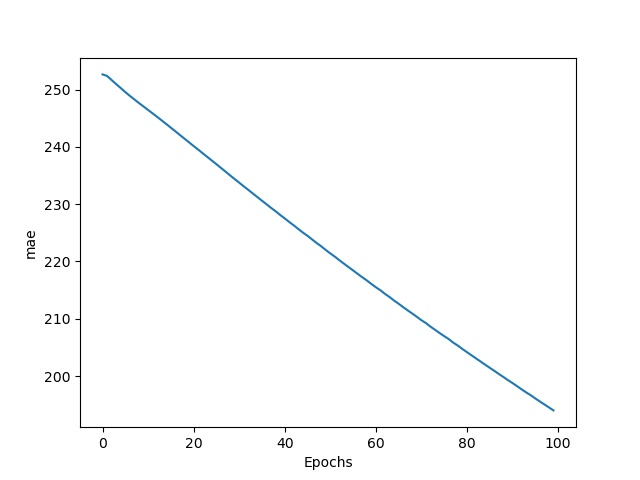
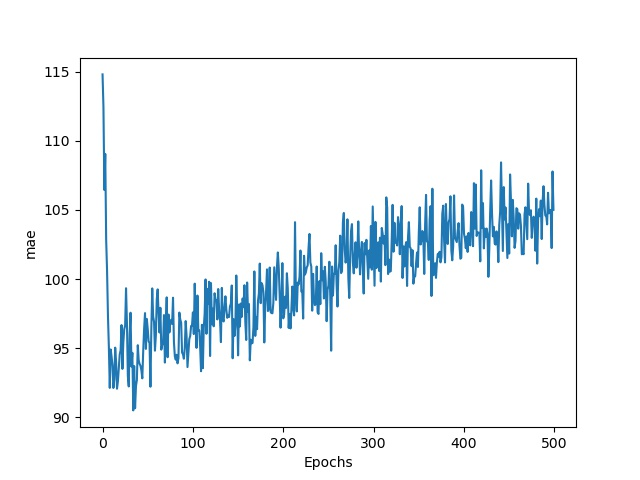
Update

diff --git a/prediction_for_lily_price_and_volume/test.py b/prediction_for_lily_price_and_volume/test.py
@@ -12,7 +12,6 @@ import datetime
 
 def new_x(predict, test_x, n, x_scaler):
     test_x =  x_scaler.inverse_transform(test_x)
-
     for i in range(test_x.shape[1]//n):
         test_x = np.insert(test_x, int(i*n+n), values=float(predict[i]), axis=1)
         test_x = np.delete(test_x, i*n, axis=1)
@@ -24,26 +23,26 @@ start = datetime.datetime(2019, 12,31)
 end = datetime.datetime(2020, 12,31)
 interval = (end - start).days
 
-path_lastyear_year = r'D:\dataset\lilium_price\val_x\FS443.csv'    #前一年的訓練資料
-path_weight = r'./weights/FS443/epoch100-loss108457.9141-val_loss68985.5859-mae194.00.pth' #權重
-# sub_path = './results/test_flower_price.csv'    #submit格式
-path_result_csv = './results/FS443_result.csv'
+path_test = r'D:\dataset\lilium_price\test_x\for2020test\FS479.csv'    #前一年的訓練資料
+path_weight = r'./weights/FS479/epoch962-loss5045.2241-val_loss12625.3564-mae61.74.pth' #權重
+sub_path = './results/test_flower_price.csv'    #submit格式
+path_result_csv = './results/FS479_result.csv'
 # flower_name = ['FS443', 'FS479', 'FS592', 'FS609', 'FS639', 'FS779', 'FS859', 'FS879', 'FS899', 'FS929']    # 需與訓練時的處理順序相同
 cloumn = [ 'price_high', 'price_mid', 'price_avg', 'volume']    # 需與訓練時的處理順序相同
 
 n = 10  # 取前n天的資料作為特徵
-# f = 10  #花的種類數
+f = 10  #花的種類數
 p = 4   #預測的價格數量
 
-header = ['date']
+header = []
 for col in cloumn:
     header.append(col)
 
-test_df = pd.read_csv(path_lastyear_year)[-1:]  # 取去年的最後n天作為今天的初始特徵
+test_df = pd.read_csv(path_test, index_col=None, header=None)  # 取去年的最後n天作為今天的初始特徵
 test_x = np.array(test_df)
 
 # # 正歸化
-train_x = pd.read_csv(r'D:\dataset\lilium_price\train_x\FS443.csv', encoding='utf-8')
+train_x = pd.read_csv(r'D:\dataset\lilium_price\train_x\FS479.csv', encoding='utf-8')   #訓練時的資料用於正規化
 x_scaler = StandardScaler().fit(train_x)
 test_x = x_scaler.transform(test_x)
 test_x = torch.Tensor(test_x)  # to tensor
@@ -53,11 +52,9 @@ model.load_state_dict(torch.load(path_weight))
 model.eval()
 date_list = []
 output_list = []
-for i in tqdm(range(interval)):
+sub = pd.read_csv(sub_path)
+for i in tqdm(range(len(sub)//f)):
     with torch.no_grad():
-        date = start + datetime.timedelta(days = (i + 1))
-        date = date.strftime('%Y-%m-%d')
-        date_list.append(date)
         predict = model(torch.unsqueeze(test_x, dim=0))
         predict = predict[0][0]    
         test_x = new_x(predict, test_x, n, x_scaler)
@@ -65,7 +62,7 @@ for i in tqdm(range(interval)):
         output_list.append(predict)
 output_arr = np.array(output_list)
 result_df = pd.DataFrame(output_arr)
-result_df.insert(0,'date',date_list)
+# result_df.insert(0,'date',sub['date'])
 result_df.to_csv(path_result_csv, float_format='%.2f', header=header, index=None)
 
 

diff --git a/prediction_for_lily_price_and_volume/train.py b/prediction_for_lily_price_and_volume/train.py
@@ -29,10 +29,10 @@ else:
 n = 10  # 取前n天的資料作為特徵
 
 #載入資料集
-train_x = pd.read_csv(r'D:\dataset\lilium_price\train_x\FS443.csv', encoding='utf-8')
-train_y = pd.read_csv(r'D:\dataset\lilium_price\train_y\FS443.csv', encoding='utf-8')
-val_x = pd.read_csv(r'D:\dataset\lilium_price\val_x\FS443.csv', encoding='utf-8')
-val_y = pd.read_csv(r'D:\dataset\lilium_price\val_y\FS443.csv', encoding='utf-8')
+train_x = pd.read_csv(r'D:\dataset\lilium_price\train_x\FS929.csv', encoding='utf-8')
+train_y = pd.read_csv(r'D:\dataset\lilium_price\train_y\FS929.csv', encoding='utf-8')
+val_x = pd.read_csv(r'D:\dataset\lilium_price\val_x\FS929.csv', encoding='utf-8')
+val_y = pd.read_csv(r'D:\dataset\lilium_price\val_y\FS929.csv', encoding='utf-8')
 
 #正規化
 x_scaler = StandardScaler().fit(train_x)
@@ -52,13 +52,14 @@ valset = utils.Setloader(val_x, val_y)
 batch_size = train_x.shape[0]
 val_batch_size = val_x.shape[0]
 LR = 0.01
-num_epochs = 100
+num_epochs = 500
 
 model = model.RNN_modelv1(input_dim=train_x.shape[1], output_dim=train_y.shape[1]).to(device)
+model.load_state_dict(torch.load(r'./weights/FS899/epoch500-loss54983.2031-val_loss10039.2021-mae53.55.pth'))    #載入預訓練權重
 # 選擇優化器與損失函數
 optimizer = torch.optim.AdamW(model.parameters(), lr=LR) 
 criterion = nn.MSELoss().to(device)
-scheduler = lr_scheduler.StepLR(optimizer, step_size=10, gamma=0.9)
+scheduler = lr_scheduler.StepLR(optimizer, step_size=100, gamma=0.9)
 # scheduler = lr_scheduler.CosineAnnealingLR(optimizer,
 #                                                T_max=10,
 #                                                eta_min=1e-6,
@@ -120,15 +121,15 @@ for epoch in range(num_epochs):
                             'mae': running_mae
                         })
                 pbar.update(1)
-    # scheduler.step()
+    scheduler.step()
     val_loss = total_val_loss/len(valloader.dataset)
     mae = total_mae/len(valloader.dataset)
     val_loss_list.append(val_loss)
     mae_list.append(mae)
     print('train_loss: {:.4f}, valid_loss: {:.4f}, MAE:{:.2f}, lr:{:.1e}'.format(loss, val_loss, mae, scheduler.get_last_lr()[0]) )
     #每10個epochs及最後一個epoch儲存模型
-    if (not epoch % 10) or (epoch == num_epochs)  :
-        torch.save(model.state_dict(), './logs/epoch%d-loss%.4f-val_loss%.4f-mae%.2f.pth' %(epoch, loss, val_loss, mae))
+    # if (not epoch % 10) or (epoch == num_epochs)  :
+    torch.save(model.state_dict(), './logs/epoch%d-loss%.4f-val_loss%.4f-mae%.2f.pth' %(epoch, loss, val_loss, mae))
 
 
 #繪製圖
